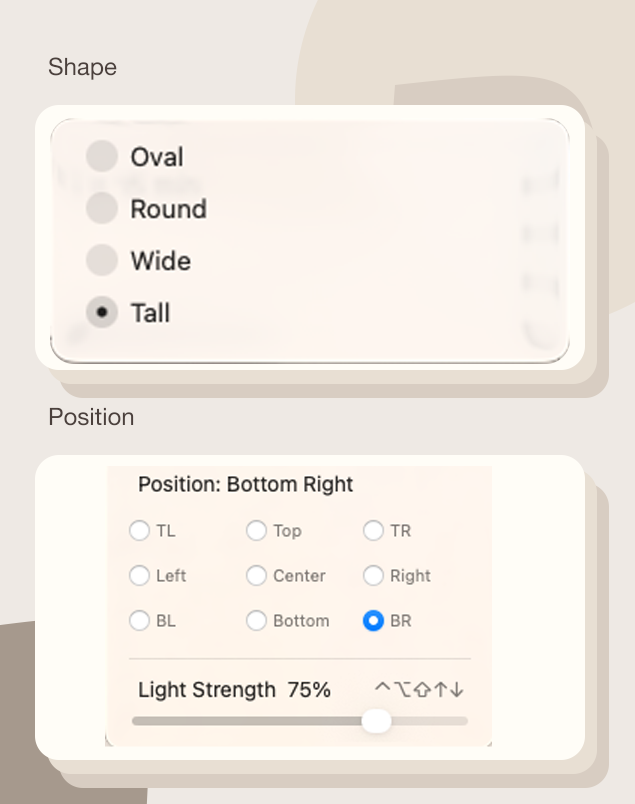
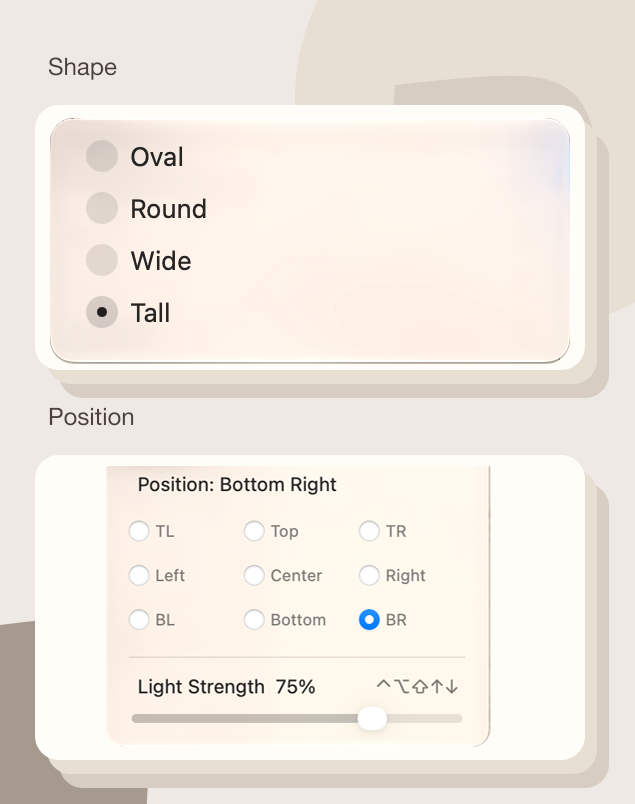
fix(media): use Retina captures for native menu details

diff --git a/docs/homepage-media.md b/docs/homepage-media.md
@@ -1,35 +1,34 @@
 # Homepage media
 
-The held 1.2.1 website uses four botanical compositions from genuine
-Parchmatte 1.2.1 (28) application captures. Two retained terminal examples
-keep their original 1.1.0 (26) provenance. Image hashes, sizes and visible
-settings are recorded in [homepage-media.json](homepage-media.json).
+This local website candidate retains the four botanical compositions and two
+historical terminal examples. Botanical scenes retain their 1.2.1 (28)
+provenance. Native controls in 02-menu.png and 10-light-shape-controls.png were
+recaptured from installed TestFlight 1.2.2 (29). Per-image component provenance,
+hashes, sizes and visible settings are in [homepage-media.json](homepage-media.json).
 
 | Public file | What it shows |
 | --- | --- |
 | `01-overview.png` | Two Preview windows, Woven and Velvet; Strength 28%, Softness 50%, Page Light off |
 | `09-velvet-writing.png` | Botanical document with Velvet; Strength 28%, Softness 50%, Page Light off |
-| `02-menu.png` | Separate native menu details and document; Velvet selected among nine textures, Strength 28%, Softness 50%, Page Light off |
+| `02-menu.png` | Separate native menu details and retained document; Velvet selected among nine textures; document Strength 28%, Softness 50%, Page Light off |
 | `10-light-shape-controls.png` | Separate native menu details; Tall, Bottom Right, Light Strength 75%, Candlelight, Warm |
 | `07-woven-terminal.png` | Retained Woven terminal example |
 | `08-denim-terminal.png` | Retained Denim terminal example |
 
-The four new exports use lossless RGB8 PNG. Ancillary density metadata was
-removed; image headers and compressed pixel chunks remain byte-identical.
-Native menu details are presented as separate panels rather than a continuous
-fabricated menu. The two menu compositions use corrected native captures from
-the same qualified
-1.2.1 (28) executable. Editable silhouette masks exclude only pixels outside
-the actual menu windows and their outside shadows; native interior control
-pixels remain unchanged. This is a media repair, with no new build
-qualification claimed. Texture and controls are not enhanced or invented.
-All screenshots link to full-size
-images; the wide menu details require that view to read fine labels on a
-narrow screen.
+The botanical exports use lossless RGB8 PNG. Ancillary metadata is removed
+without changing IHDR or compressed IDAT chunks. Separate native menu panels
+show actual captured controls, with editable alpha silhouettes excluding only
+pixels outside native windows and their outside shadows. Retina control crops
+are fitted at native pixel size or smaller; 1:1 placements use integer pixels.
+PhotoCraft converts the source display ICC profile to the destination
+workingRGB profile during composition. No UI text is retyped or darkened, and
+no texture or effect is enhanced. These are mixed-provenance compositions,
+not wholly recaptured build 29 scenes. All screenshots link to full-size
+images; fine labels in wide menu details require that view on narrow screens.
 
 The terminal examples are lossless crops of a synthetic terminal with the
-actual application overlay, at Strength 15%, Softness 35%, Page Light off.
-Their original hashes and settings are retained in the JSON receipt.
+actual 1.1.0 (26) application overlay, at Strength 15%, Softness 35%, Page Light
+off. Their original hashes and settings are retained in the JSON receipt.
 
-Publication remains held until 1.2.1 is verified live on the Mac App Store
-and the public update has completed its review and approval gates.
+This candidate remains local. Public website PR33 is unchanged and held;
+public update and release-parity approval gates still apply.
